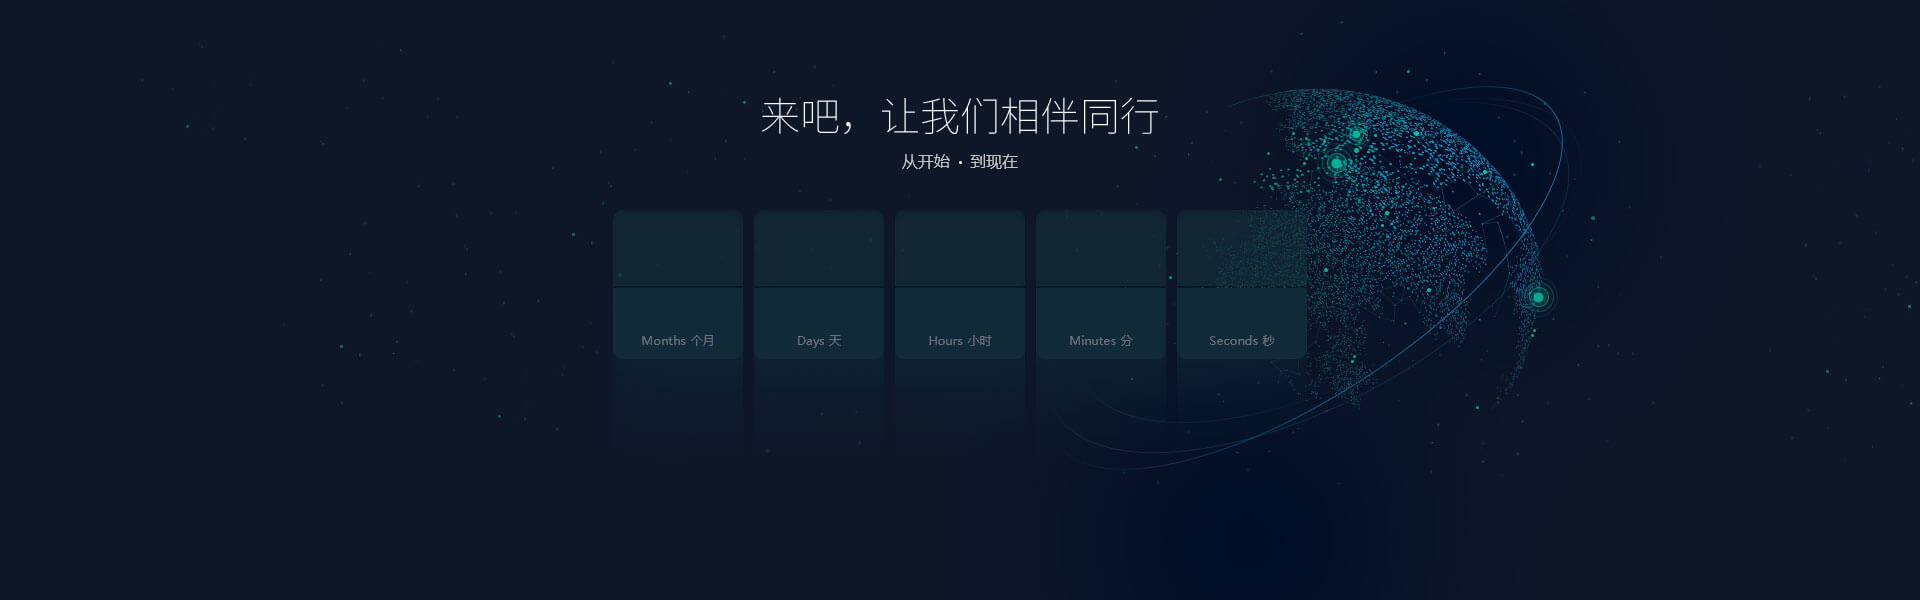
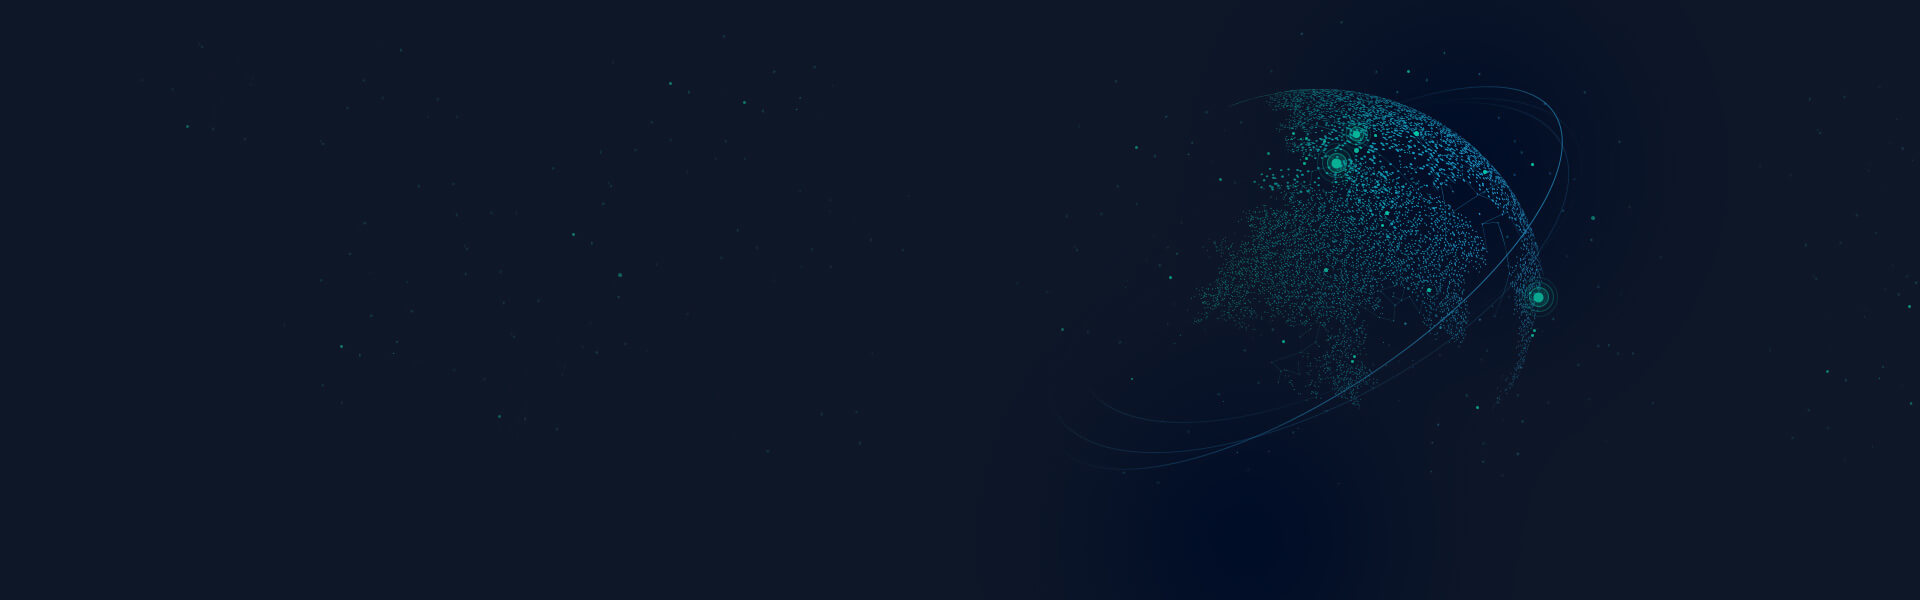
关于页面时钟背景视差滚动特效

diff --git a/css/style.css b/css/style.css
@@ -54,6 +54,7 @@ body{
 }
                     
                     
+                    
 .iconfont {
   font-family:"iconfont" !important;
   font-size:16px;
@@ -1029,16 +1030,36 @@ a:hover .s-company{
 	max-width: 1920px;
 	height: 600px;
 	margin: auto;
-	background: url(../img/about/timing-bg.jpg) center no-repeat;
-	
+	background: url(../img/about/timing-bg.jpg) no-repeat,url(../img/about/timing-bg.jpg) no-repeat;
+	background-size:cover;
+	text-align: center;
+}
+.timing-bg h2{
+	font-size: 40px;
+	color: #c5c5c5;
+	line-height: 36px;
+	font-weight: 100;
+	padding-top: 100px;
+	padding-bottom: 10px;
+}
+.timing-bg p{
+	font-size: 16px;
+	color: #c5c5c5;
+	line-height: 36px;
+}
+.ticking-clock-box{
+	width: 694px;
+	height: 270px;
+	background: url(../img/about/ticking-clock.png) center no-repeat;
+	margin: 30px auto 0;
 }
 .timing-list{
-	margin-left: 233px;
-	width: 710px;
 	position: relative;
 }
 .timing-list li{
-	float: left;
+	display: inline-block;
+	text-align: center;
+	text-align-last: center;
 	font-size: 80px;
 	font-family: arial;
 	width: 130px;
@@ -1046,8 +1067,6 @@ a:hover .s-company{
 	line-height: 150px;
 	font-weight: bold;
 	color: #fff;
-	margin:210px 6px 0;
-	text-align: center;
     background: -webkit-linear-gradient(top,#fff 50%,rgba(107,114,123,0.9) 50%);
     background: linear-gradient(top,#fff 50%,rgba(107,114,123,0.9) 50%);
     -webkit-background-clip: text;
@@ -1057,18 +1076,16 @@ a:hover .s-company{
 }
 .timing-layer{
 	position: absolute;
-	padding-left: 233px;
 	height: 2px;
 	left: 0;
 	right: 0;
-	top: 286px;
+	top: 76px;
 	background: url(../img/about/timing-bg.jpg) center/100% 2px no-repeat;
 }
 .join-link{
 	display: block;
 	text-align: center;
 	font-size: 16px;
-	margin-top: 100px;
 	color: #14C6D0;
 }
 .join-link i{
@@ -1456,8 +1473,8 @@ a:hover .s-company{
 	left:0;
 	color: #fff;
 	background:#14C6D0 ;
-	background: -webkit-linear-gradient(90deg,transparent 110px,rgba(0,0,0,0.1) 110px,rgba(0,0,0,0.1) 0) no-repeat,-webkit-linear-gradient(135deg,#1ed6c3 0%,#1ebbd5 100%) no-repeat;
-	background: linear-gradient(0deg,transparent 110px,rgba(0,0,0,0.1) 110px,rgba(0,0,0,0.1) 0) no-repeat,linear-gradient(-45deg,#1ed6c3 0%,#1ebbd5 100%) no-repeat;
+	background: -webkit-linear-gradient(90deg,transparent 110px,rgba(0,0,0,0.1) 110px,rgba(0,0,0,0.1) 0) no-repeat,-webkit-linear-gradient(135deg,rgba(30,214,195,0.98) 0%,rgba(30,187,213,0.98) 100%) no-repeat;
+	background: linear-gradient(0deg,transparent 110px,rgba(0,0,0,0.1) 110px,rgba(0,0,0,0.1) 0) no-repeat,linear-gradient(-45deg,rgba(30,214,195,0.98) 0%,rgba(30,187,213,0.98) 100%) no-repeat;
 }
 .modal-main{
 	padding: 30px 50px;

diff --git a/js/common.js b/js/common.js
@@ -69,6 +69,45 @@ $(function() {
 		});
 	})
 	
+	//
+	var initParallaxScroll = function() {
+		$(document).ready(function() {
+			$window = $(window);
+			$('[data-type="parallaxScroll"]').each(function() {
+				var e = $(this), i = e.offset(), n = i.top, a = e.outerHeight(), o = e.data("bgheight"), r;
+				if (o) {
+					r = o > a ? o - a : 0
+				}
+				$(window).scroll(function() {
+//					if (t)
+//						return false;
+					if ($window.scrollTop() + $window.height() > n + a / 2 && n + a > $window.scrollTop()) {
+						var i = -(($window.scrollTop() + $window.height() - n) / e.data("speed"))
+						  , o = i;
+						if (r >= 0) {
+							o = Math.abs(i) < r ? i : -r
+						}
+						var s = "50% " + o + "px";
+						e.css({
+							backgroundPosition: s+',center',
+							transition: "background-position 0.3s linear"
+						})
+					}
+				})
+			});
+//			var e = $("#mod-wrap-free");
+//			$window.on("resize", function() {
+//				var t = $window.width();
+//				if (t > 1920 || t <= 768) {
+//					e.css("background-size", "cover")
+//				} else {
+//					e.css("background-size", "1920px 650px")
+//				}
+//			})
+		})
+	}
+	
+	initParallaxScroll();
 		// 判断是否已经点赞
 	$(".btn-like").each(function(){
 		var $this = $(this);

diff --git a/about.html b/about.html
@@ -130,9 +130,12 @@
 				</ul>
 				<div class="about-insprition"></div>
 			</div>
-			<div class="timing-bg">
+			<div class="timing-bg" data-type="parallaxScroll" data-speed="25" data-bgheight="640">
 				<div class="main">
-					<ul class="timing-list clearfix">
+					<h2>来吧，让我们相伴同行</h2>
+					<p>从开始   • 到现在</p>
+					<div class="ticking-clock-box">						
+					<ul class="timing-list clearfix justify">
 						<li id="timing-month">61</li>
 						<li id="timing-day">07</li>
 						<li id="timing-hour">35</li>
@@ -140,10 +143,10 @@
 						<li id="timing-sec">49</li>
 						<div class="timing-layer"></div>
 					</ul>
+					</div>
 					<a href="join.html" class="join-link">加入我们 <i class="iconfont">&#xe601;</i></a>
 				</div>
 			</div>
-			
 			<div class="main about-member-box">
 				<ul class="about-member-list clearfix">
 					<li>
@@ -356,7 +359,7 @@
 					area: ['980px', '620px'],
 					closeBtn:1,
 					btn:false,
-					shade: [0.98, '#000'],
+					shade: [0.6, '#000'],
 					content: $("#contat-form-box").html(),
 					success: function(currentLayer) {
 						//body禁止滚动,使弹窗固定

diff --git a/service.html b/service.html
@@ -445,7 +445,7 @@
 					area: ['980px', '620px'],
 					closeBtn: 1,
 					btn: false,
-					shade: [0.98, '#000'],
+					shade: [0.6, '#000'],
 					content: $("#contat-form-box").html(),
 					success: function(currentLayer) {
 						//body禁止滚动,使弹窗固定

diff --git a/join.html b/join.html
@@ -66,6 +66,9 @@
 			</div>
 		</div>
 		<style type="text/css">
+			.layui-layer{
+				background: none;
+			}
 			.layui-layer-ico.layui-layer-close.layui-layer-close2 {
 				background: none;
 				right: -55px;
